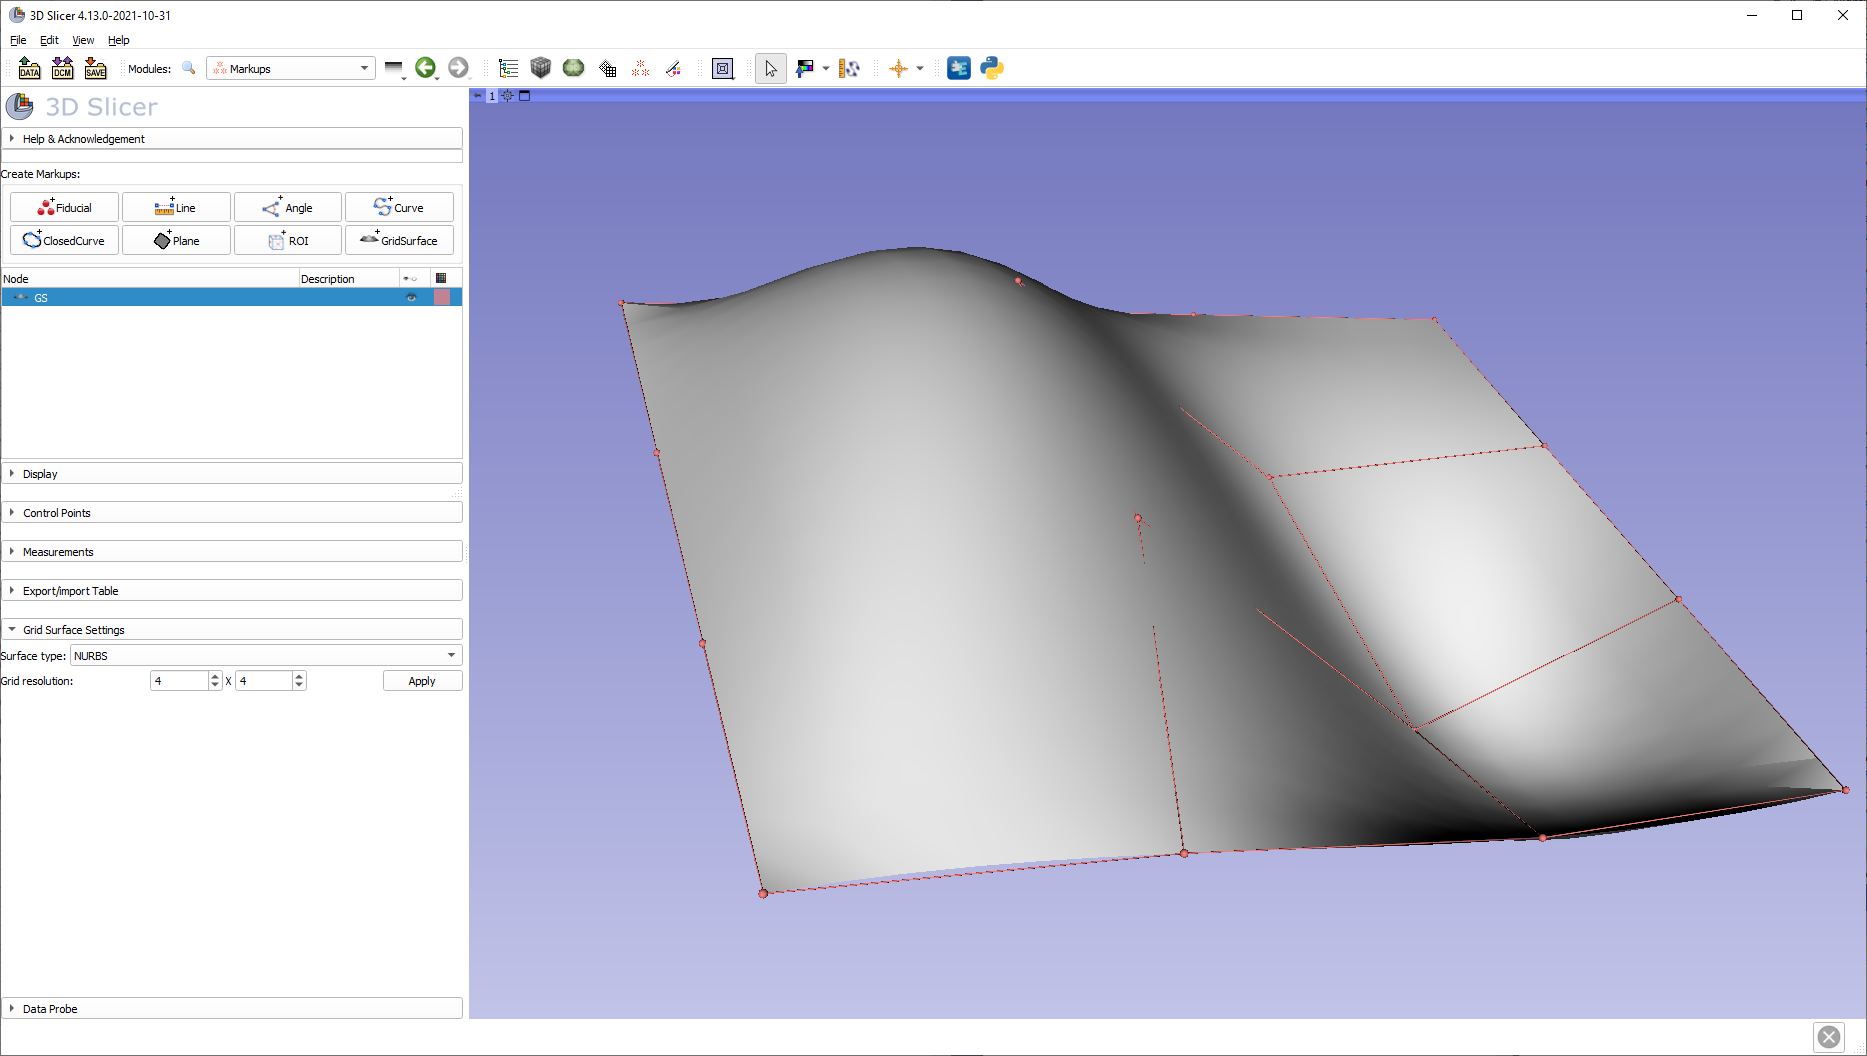
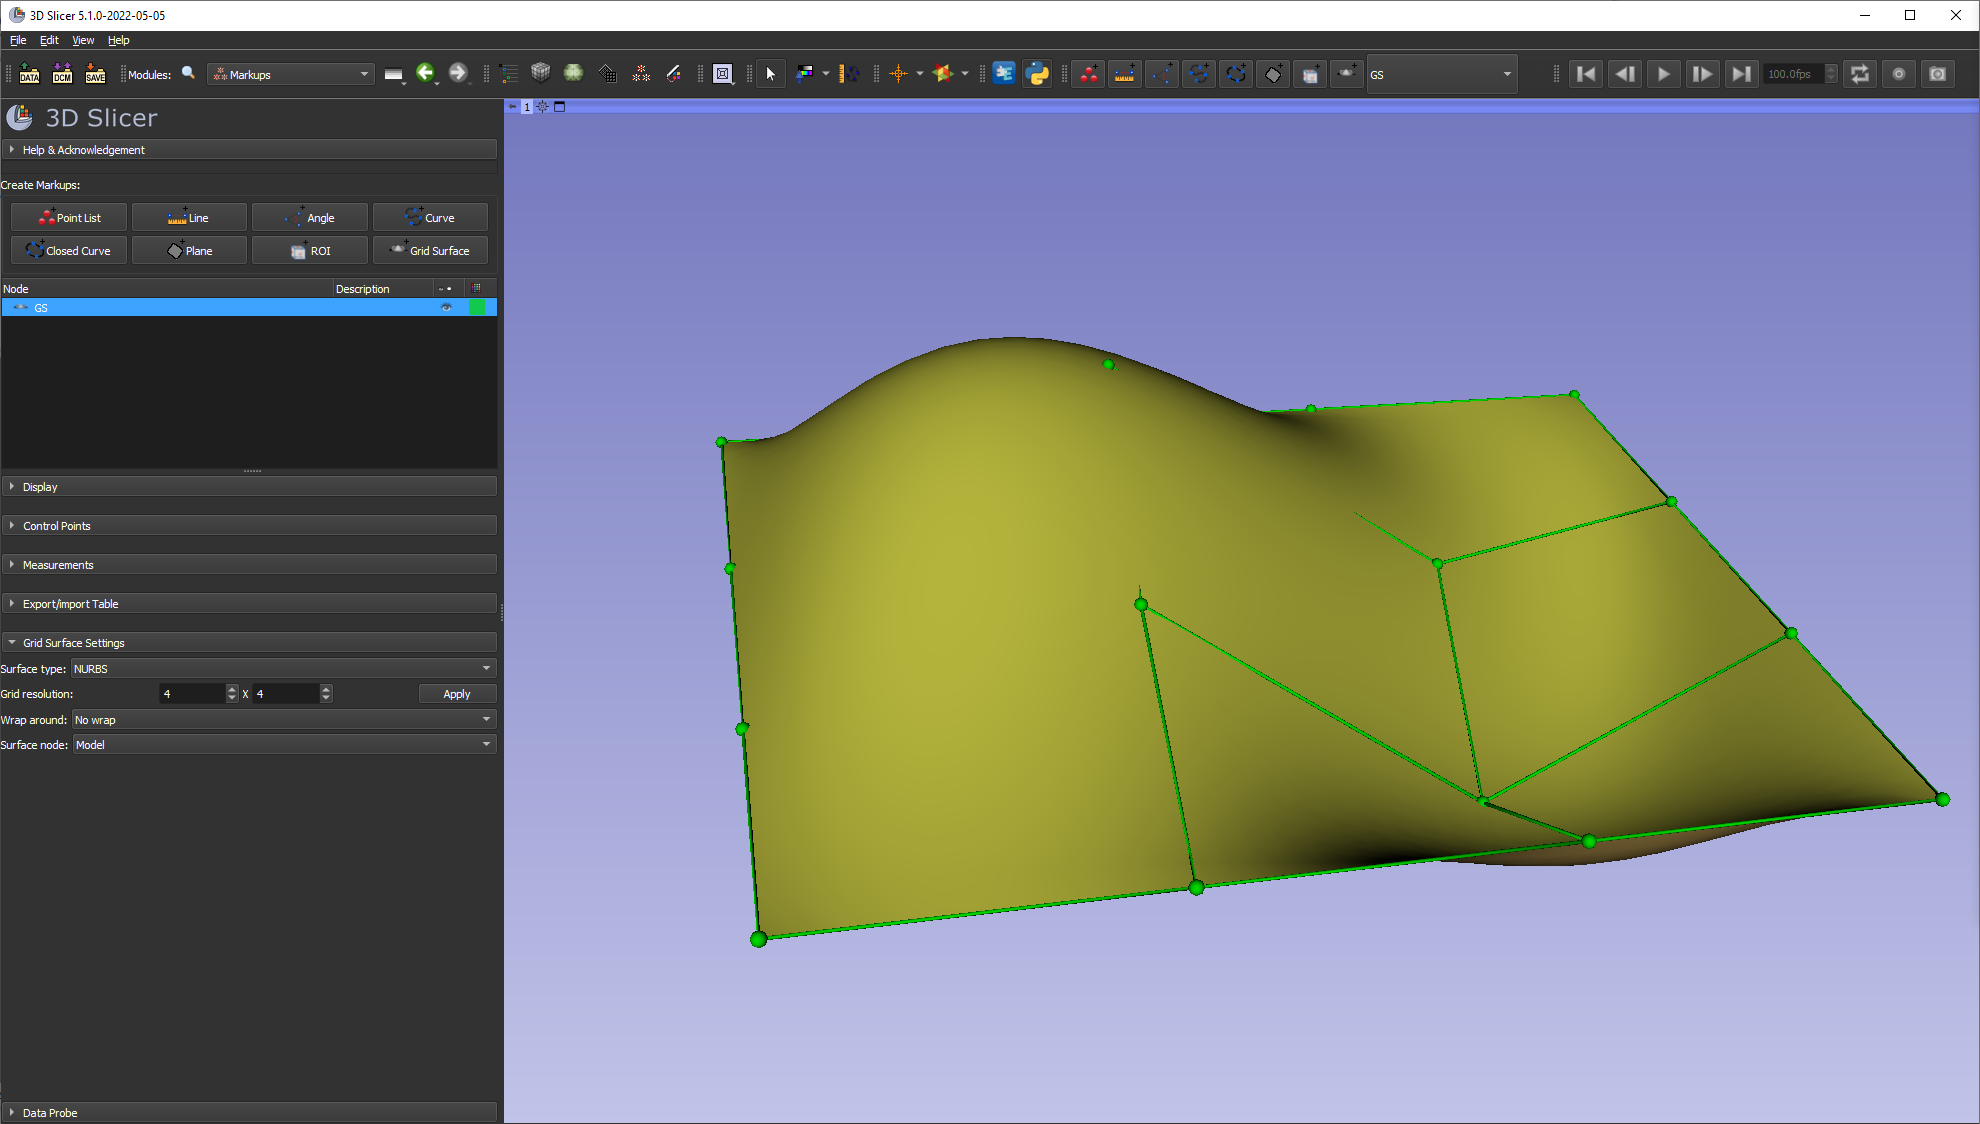
DOC: Update screenshots, add wrap around NURBS image

diff --git a/README.md b/README.md
@@ -5,9 +5,15 @@ Adds support for grid surfaces such as NURBS or Bézier surfaces.
 - Placement by the three initial control points defining three of the four corners thus the surface plane. The fourth corner is added symmetrically.
 - The grid control points are added automatically to uniformly fill the defined surface area
 - The surface can be edited by moving the control points
+- Output model node can be associated for the surface patch the display options of which can be edited in the Models module
 
+Example NURBS surface:
 ![NURBS](https://raw.githubusercontent.com/SlicerHeart/SlicerSurfaceMarkup/master/Screenshots/NURBS.png?raw=true)
 
+NURBS surface wrapped around (i.e. cylinder-like) shaped like a heart valve:
+![NURBS Valve](https://github.com/SlicerHeart/SlicerSurfaceMarkup/raw/master/Screenshots/NURBS_WrapAround_Valve.png)
+
+Example Bézier surface:
 ![Bezier](https://raw.githubusercontent.com/SlicerHeart/SlicerSurfaceMarkup/master/Screenshots/Bezier.png?raw=true)
 
 ## Funding sources:
